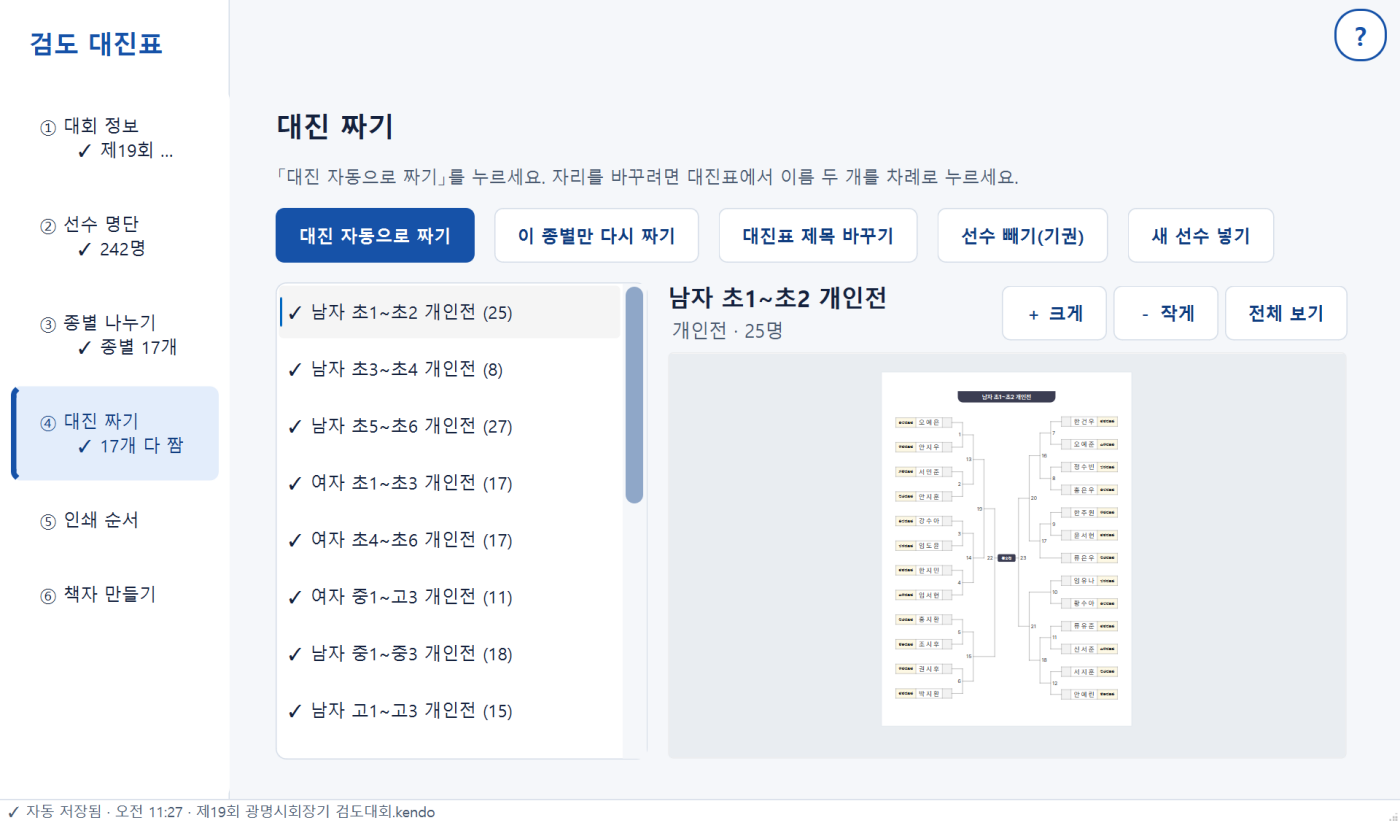
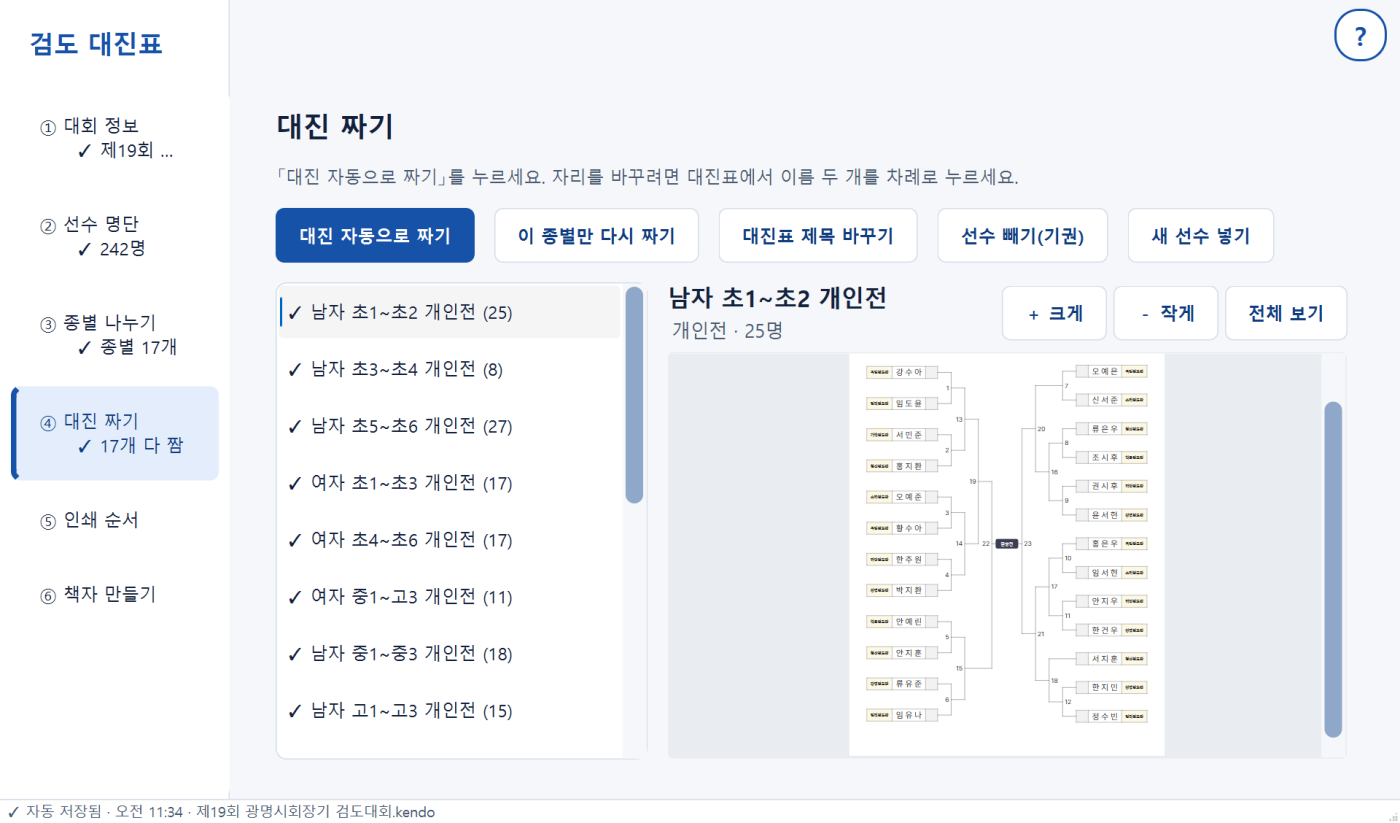
feat: 요강 이름(초등 저학년부·고학년부)을 대진 제목에 쓰고 선수 지우기 전에 묻는다
- 종별 글에 저학년/고학년이 있고 범위가 1~3·4~6 이면 제목이 「남자 초등 저학년부 개인전」(DivisionRule.name)
  학년 범위가 바뀌면(합치기·쪼개기·표에서 고침) 이름을 떼고 학년으로 부른다
- .kendo 에 name 칸 추가, 없는 예전 파일은 예전 제목 그대로 열림(시험)
- 종별 표 틀 「초등 저학년·고학년부」 추가
- ② 「고른 선수 지우기」는 한 번 묻는다
- ④ 「전체 보기」는 종이가 아니라 대진표 그림을 화면에 꽉 차게(작은 대진이 안 커지던 문제)

Changed region(s): [[0.6143, 0.4253, 0.8293, 0.8809], [0.9214, 0.486, 0.9829, 0.8809]]

diff --git a/src/kendo_tournament/application/help_content.py b/src/kendo_tournament/application/help_content.py
@@ -115,6 +115,7 @@ SECTIONS: tuple[HelpSection, ...] = (
                 "기타",
                 (
                     "신청서 없이 받은 선수는 「선수 추가」로 넣습니다.",
+                    "표에서 선수를 누르고 「고른 선수 지우기」를 누르면 한 번 더 묻고 지웁니다. 지운 선수는 되살릴 수 없습니다.",
                     "같은 도장이 다르게 적혀 왔으면(○○검도관 / ○○검도장) 오른쪽 목록에서 둘 이상 골라 「같은 도장으로 묶기」를 누릅니다.",
                 ),
             ),
@@ -130,7 +131,9 @@ SECTIONS: tuple[HelpSection, ...] = (
                     "맨 위 「대회 종별 표」가 이 대회의 개인전·단체전 종별입니다. 새 대회는 광명 회장기 종별입니다.",
                     "「대회 종별 표 고치기」에서 요강이나 신청서를 넣으면 그 속 신청서 양식의 종별을 읽어 옵니다.",
                     "신청서 양식이 없는 경기일정 파일은 「경기장배치」 표에 적힌 종별을 읽어 옵니다.",
-                    "「틀 고르기」로 광명 회장기·광명 시장기 종별을 넣고, 바꿀 줄만 고쳐도 됩니다.",
+                    "「틀 고르기」로 광명 회장기·광명 시장기·인제 전국대회 종별을 넣고, 바꿀 줄만 고쳐도 됩니다.",
+                    "요강이 초등부를 저학년부(1~3학년)·고학년부(4~6학년)로 나누면 「초등 저학년·고학년부」 틀을 고릅니다.",
+                    "종별 글에 「저학년부」「고학년부」가 있으면 대진표 제목도 그 이름입니다(예: 남자 초등 저학년부 개인전). 학년 범위를 고치거나 합치면 학년으로 바뀝니다.",
                     "종별 글은 신청서처럼 적습니다. 예: 남초등 1~2학년, 여청소년 (중,고), 남자청년부 20~35세",
                     "종목을 고르고 「기준 채우기」를 누르면 종별마다 나누는 기준이 한 줄씩 생깁니다.",
                     "신청서에만 있는 다른 종별(다른 양식)은 그 뒤에 붙습니다.",
@@ -185,7 +188,7 @@ SECTIONS: tuple[HelpSection, ...] = (
                     "늦게 온 선수: 명단에 넣고 종별을 다시 나눈 뒤 「새 선수 넣기」",
                     "「이 종별만 다시 짜기」는 손으로 고친 것을 지우고 새로 뽑습니다.",
                     "「대진표 제목 바꾸기」로 대진표 맨 위 제목을 바꿉니다(예: 남자 단부 개인전 B조).",
-                    "대진표는 「＋ 크게」「－ 작게」「전체 보기」로 크기를 바꿉니다.",
+                    "대진표는 「＋ 크게」「－ 작게」로 크기를 바꾸고, 「전체 보기」를 누르면 대진표가 화면에 꽉 차게 돌아옵니다.",
                 ),
             ),
             HelpGroup(

diff --git a/tests/presentation/test_names_and_delete.py b/tests/presentation/test_names_and_delete.py
@@ -1,0 +1,64 @@
+import os
+
+os.environ.setdefault("QT_QPA_PLATFORM", "offscreen")
+
+from PySide6.QtWidgets import QApplication, QMessageBox  # noqa: E402
+
+from kendo_tournament.application.tournament_session import TournamentSession  # noqa: E402
+from kendo_tournament.domain.division.category_table import TEMPLATES  # noqa: E402
+from kendo_tournament.domain.division.presets import PresetChoice  # noqa: E402
+from kendo_tournament.domain.model import Event, Gender, Grade, Participant  # noqa: E402
+from kendo_tournament.infrastructure.readers.registry import reader_for  # noqa: E402
+from kendo_tournament.infrastructure.storage.json_repository import JsonTournamentRepository  # noqa: E402
+from kendo_tournament.presentation.division_view import FROM, DivisionView  # noqa: E402
+from kendo_tournament.presentation.roster_view import RosterView  # noqa: E402
+
+APP = QApplication.instance() or QApplication([])
+
+
+def _session(tmp_path):
+    s = TournamentSession(JsonTournamentRepository(), reader_for, tmp_path)
+    people = [
+        Participant(f"p{i}", f"선수{i}", Gender.MALE, f"도장{i}", Grade(1 + i % 3), None, "광명", "a.docx") for i in range(4)
+    ]
+    s.set_participants(people)
+    return s
+
+
+def _answer(monkeypatch, button):
+    asked: list[str] = []
+
+    def question(*args, **kwargs):
+        asked.append(args[2])
+        return button
+
+    monkeypatch.setattr(QMessageBox, "question", question)
+    return asked
+
+
+def test_고른_선수_지우기는_한_번_묻고_아니요면_그대로_둔다(tmp_path, monkeypatch):
+    s = _session(tmp_path)
+    view = RosterView(s, (".docx",))
+    before = len(s.tournament.participants)
+    view._table.selectRow(0)
+    asked = _answer(monkeypatch, QMessageBox.StandardButton.No)
+    view._remove_selected()
+    assert asked
+    assert len(s.tournament.participants) == before
+    _answer(monkeypatch, QMessageBox.StandardButton.Yes)
+    view._remove_selected()
+    assert len(s.tournament.participants) == before - 1
+
+
+def test_기준_표를_거쳐_나눠도_요강_이름이_남고_학년을_고치면_뗀다(tmp_path):
+    s = _session(tmp_path)
+    s.set_categories(TEMPLATES["초등 저학년·고학년부"])
+    view = DivisionView(s, (".docx",))
+    view._add_preset(PresetChoice((Event.INDIVIDUAL,)))
+    view._apply()
+    assert "남자 초등 저학년부 개인전" in [d.label for d in s.tournament.divisions]
+    view._table.cellWidget(0, FROM).select(Grade(2))
+    view._apply()
+    labels = [d.label for d in s.tournament.divisions]
+    assert "남자 초등 저학년부 개인전" not in labels
+    assert any("초2~초3" in label for label in labels)

diff --git a/src/kendo_tournament/presentation/division_view.py b/src/kendo_tournament/presentation/division_view.py
@@ -159,6 +159,9 @@ class DivisionView(QWidget):
         for column, widget in cells.items():
             self._table.setCellWidget(row, column, widget)
         event.setProperty("rule_id", rule.id)
+        # 표에는 요강 이름 칸이 없다. 이름과 그 이름이 가리키던 학년 범위를 들고 있다가, 범위를 안 고쳤으면 다시 붙인다.
+        event.setProperty("rule_name", rule.name)
+        event.setProperty("named_span", (rule.grade_from.value, rule.grade_to.value))
         delete = button("삭제")
         delete.clicked.connect(lambda _=False, combo=event: self._delete_row_of(combo))
         self._table.setCellWidget(row, DELETE, delete)
@@ -176,18 +179,22 @@ class DivisionView(QWidget):
             cell = self._table.cellWidget
             event = cell(row, EVENT).value()
             age_from, age_to, age_name = rule_age(cell(row, AGE).text())
+            grade_from, grade_to = cell(row, FROM).value(), cell(row, TO).value()
+            span = cell(row, EVENT).property("named_span")
+            kept = span is not None and tuple(span) == (grade_from.value, grade_to.value)
             rules.append(
                 DivisionRule(
                     cell(row, EVENT).property("rule_id") or f"r{row + 1}",
                     event,
                     cell(row, GENDER).value(),
-                    cell(row, FROM).value(),
-                    cell(row, TO).value(),
+                    grade_from,
+                    grade_to,
                     None,
                     cell(row, MINIMUM).value(),
                     age_from,
                     age_to,
                     age_name,
+                    (cell(row, EVENT).property("rule_name") or "") if kept else "",
                 )
             )
         return rules

diff --git a/src/kendo_tournament/presentation/bracket_canvas.py b/src/kendo_tournament/presentation/bracket_canvas.py
@@ -6,6 +6,7 @@ from PySide6.QtCore import QPointF, QRectF, QSize, Qt, Signal
 from PySide6.QtGui import QBrush, QColor, QFont, QFontMetricsF, QPainter, QPen, QPixmap, QPolygonF
 from PySide6.QtWidgets import (
     QGraphicsItem,
+    QGraphicsLineItem,
     QGraphicsPixmapItem,
     QGraphicsPolygonItem,
     QGraphicsRectItem,
@@ -22,6 +23,7 @@ PX_PER_MM = 4.0
 PT_TO_MM = 0.3528
 PAGE_GAP_MM = 8.0
 LINE_PEN_WIDTH = 0.9
+DRAWING_MARGIN_MM = 6.0
 
 
 class BracketCanvas(QGraphicsView):
@@ -52,6 +54,22 @@ class BracketCanvas(QGraphicsView):
 
     def fit(self) -> None:
         self.fitInView(self.scene().sceneRect(), Qt.AspectRatioMode.KeepAspectRatio)
+
+    def fit_drawing(self) -> None:
+        """종이가 아니라 그려진 대진표(이름·선·띠)가 화면에 꽉 차게 맞춘다.
+
+        종이 전체를 맞추면 2명 대진처럼 작은 대진이 종이 가운데에 조그맣게 남아 「전체 보기」가 안 되는 것처럼 보였다(운영자).
+        선(이름 상자 테두리·대진 선)만 잰다. 종별 이름 띠는 종이 맨 위라 넣으면 작은 대진이 다시 작아지고, 이름은 화면 위에 따로 나온다.
+        """
+        drawing = QRectF()
+        for item in self.scene().items():
+            if isinstance(item, QGraphicsLineItem):
+                drawing = drawing.united(item.sceneBoundingRect())
+        if drawing.isEmpty():
+            self.fit()
+            return
+        margin = DRAWING_MARGIN_MM * PX_PER_MM
+        self.fitInView(drawing.adjusted(-margin, -margin, margin, margin), Qt.AspectRatioMode.KeepAspectRatio)
 
     def zoom(self, factor: float) -> None:
         """단추로 확대·축소한다. Ctrl+휠은 운영자가 모르는 경우가 많다."""

diff --git a/tests/domain/test_division_names.py b/tests/domain/test_division_names.py
@@ -1,0 +1,27 @@
+from dataclasses import replace
+
+from kendo_tournament.domain.division.editing import merge_rules, split_rules
+from kendo_tournament.domain.division.individual_categories import individual_rules
+from kendo_tournament.domain.model import DivisionRule, Event, Gender, Grade
+
+
+def _named_rules() -> list[DivisionRule]:
+    return individual_rules([], (), None, ("남초등 저학년부", "남초등 고학년부"))
+
+
+def test_요강_이름이_있는_종별은_제목이_요강_이름이다():
+    assert [rule.label for rule in _named_rules()] == ["남자 초등 저학년부 개인전", "남자 초등 고학년부 개인전"]
+
+
+def test_합치거나_쪼개서_학년_범위가_바뀌면_요강_이름을_떼고_학년으로_부른다():
+    rules = _named_rules()
+    (merged,) = merge_rules(rules, [rule.id for rule in rules])
+    assert merged.label == "남자 초1~초6 개인전"
+    split = split_rules(rules[:1], [rules[0].id])
+    assert [rule.label for rule in split] == ["남자 초1 개인전", "남자 초2 개인전", "남자 초3 개인전"]
+
+
+def test_범위가_그대로면_요강_이름이_남는다():
+    rule = DivisionRule("r", Event.INDIVIDUAL, Gender.MALE, Grade(1), Grade(3), name="초등 저학년부")
+    assert rule.with_grades(Grade(1), Grade(3)).label == "남자 초등 저학년부 개인전"
+    assert replace(rule, name="").label == "남자 초1~초3 개인전"

diff --git a/src/kendo_tournament/domain/division/editing.py b/src/kendo_tournament/domain/division/editing.py
@@ -34,7 +34,7 @@ def merge_rules(rules: Sequence[DivisionRule], rule_ids: Sequence[str]) -> list[
     for lower, upper in zip(picked, picked[1:], strict=False):
         if upper.grade_from.value != lower.grade_to.value + 1:
             raise ValueError("학년이 이어지는 종별끼리만 합칠 수 있습니다. 사이에 낀 종별도 함께 골라 주세요.")
-    merged = replace(head, grade_to=picked[-1].grade_to)
+    merged = head.with_grades(head.grade_from, picked[-1].grade_to)
     removed = {rule.id for rule in picked}
     first_position = min(index for index, rule in enumerate(rules) if rule.id in removed)
     result = [rule for rule in rules if rule.id not in removed]
@@ -56,7 +56,8 @@ def split_rules(rules: Sequence[DivisionRule], rule_ids: Sequence[str]) -> list[
             continue
         for value in range(rule.grade_from.value, rule.grade_to.value + 1):
             rule_id = rule.id if value == rule.grade_from.value else _fresh_id(f"{rule.id}-{value}", used)
-            result.append(replace(rule, id=rule_id, grade_from=Grade(value), grade_to=Grade(value), min_entries=None))
+            single = rule.with_grades(Grade(value), Grade(value))
+            result.append(replace(single, id=rule_id, min_entries=None))
     return result
 
 

diff --git a/src/kendo_tournament/domain/model.py b/src/kendo_tournament/domain/model.py
@@ -2,7 +2,7 @@
 
 from __future__ import annotations
 
-from dataclasses import dataclass, field
+from dataclasses import dataclass, field, replace
 from enum import Enum
 
 
@@ -99,6 +99,8 @@ class DivisionRule:
     age_from: int | None = None
     age_to: int | None = None
     age_name: str = ""
+    # 요강이 부르는 종별 이름(「초등 저학년부」). 학년 범위가 바뀌면(합치기·쪼개기) 그 이름이 맞지 않아 비운다.
+    name: str = ""
 
     def __post_init__(self) -> None:
         if self.grade_from > self.grade_to:
@@ -115,7 +117,14 @@ class DivisionRule:
             grades = self.age_band_label
         elif self.age_name:
             grades = self.age_name
+        elif self.name:
+            grades = self.name
         return f"{gender} {grades} {self.event.value}"
+
+    def with_grades(self, grade_from: Grade, grade_to: Grade) -> DivisionRule:
+        """학년 범위를 바꾼 규칙. 범위가 달라지면 요강 이름이 더는 맞지 않아 뗀다."""
+        same = (grade_from, grade_to) == (self.grade_from, self.grade_to)
+        return replace(self, grade_from=grade_from, grade_to=grade_to, name=self.name if same else "")
 
     @property
     def has_age_band(self) -> bool:

diff --git a/src/kendo_tournament/presentation/roster_view.py b/src/kendo_tournament/presentation/roster_view.py
@@ -11,6 +11,7 @@ from PySide6.QtWidgets import (
     QInputDialog,
     QListWidget,
     QListWidgetItem,
+    QMessageBox,
     QTableWidget,
     QTableWidgetItem,
     QVBoxLayout,
@@ -194,7 +195,13 @@ class RosterView(QWidget):
     def _remove_selected(self) -> None:
         rows = {index.row() for index in self._table.selectedIndexes()}
         ids = {self._table.item(row, 0).data(Qt.ItemDataRole.UserRole) for row in rows}
-        if ids:
+        if not ids:
+            show_warnings(self._warnings, ["지울 선수를 표에서 먼저 눌러 주세요."])
+            return
+        # 지운 선수는 되살릴 수단이 없어 한 번 묻는다(운영자 요청).
+        question = f"고른 선수 {len(ids)}명을 명단에서 지울까요? 지우면 되살릴 수 없습니다."
+        answer = QMessageBox.question(self, "선수 지우기", question)
+        if answer == QMessageBox.StandardButton.Yes:
             self._session.set_participants([p for p in self._session.tournament.participants if p.id not in ids])
             self.refresh()
             self.roster_changed.emit()

diff --git a/tests/domain/test_category_table.py b/tests/domain/test_category_table.py
@@ -24,3 +24,15 @@ def test_시장기_신청서_학년_선수는_자기_학년_부문에_든다():
     choice = PresetChoice((Event.INDIVIDUAL,), categories=GWANGMYEONG_MAYOR)
     result = build_divisions(people, [], make_rules(choice, participants=people))
     assert [(d.label, len(d.entries)) for d in result.divisions] == [("남자 초2 개인전", 2)]
+
+
+def test_저학년부_고학년부_틀의_초등_종별은_1에서3_4에서6학년이고_제목은_요강_이름이다():
+    from kendo_tournament.domain.division.category_label import group_name, parse_category
+    from kendo_tournament.domain.division.category_table import TEMPLATES
+
+    table = TEMPLATES["초등 저학년·고학년부"]
+    assert table.unreadable() == []
+    elementary = [label for label in (*table.individual, *table.team) if "학년부" in label]
+    spans = {(parse_category(label).grade_from, parse_category(label).grade_to) for label in elementary}
+    assert spans == {(1, 3), (4, 6)}
+    assert {group_name(label) for label in elementary} == {"초등 저학년부", "초등 고학년부"}

diff --git a/tests/infrastructure/test_json_repository.py b/tests/infrastructure/test_json_repository.py
@@ -337,3 +337,19 @@ def test_팀원_자리는_저장되고_없던_예전_파일은_자리_없이_읽
     del saved["teams"][0]["positions"]
     path.write_text(json.dumps(saved, ensure_ascii=False), encoding="utf-8")
     assert repo.load(path).teams[0].positions == ()
+
+
+def test_요강_이름이_저장되고_이름_칸이_없는_예전_파일은_학년_제목_그대로_열린다(tmp_path):
+    import json
+
+    repo = JsonTournamentRepository()
+    t = sample_tournament()
+    t.rules = [DivisionRule("r", Event.INDIVIDUAL, Gender.MALE, Grade(1), Grade(3), name="초등 저학년부")]
+    path = tmp_path / "새.kendo"
+    repo.save(t, path)
+    assert repo.load(path).rules[0].label == "남자 초등 저학년부 개인전"
+    saved = json.loads(path.read_text(encoding="utf-8"))
+    for rule in saved["rules"]:
+        del rule["name"]
+    path.write_text(json.dumps(saved, ensure_ascii=False), encoding="utf-8")
+    assert repo.load(path).rules[0].label == "남자 초1~초3 개인전"

diff --git a/src/kendo_tournament/domain/division/category_label.py b/src/kendo_tournament/domain/division/category_label.py
@@ -96,6 +96,21 @@ def band_name(label: str) -> str:
     return _GENDER_PREFIX.sub("", text)
 
 
+def group_name(label: str) -> str:
+    """요강이 초등부를 「저학년부·고학년부」로 부르면 그 이름(「초등 저학년부」). 아니면 빈 글.
+
+    운영자: 요강의 초등부 이름이 학년 대신 저학년부·고학년부로 바뀔 수 있다 — 대진표 제목도 요강 이름을 따른다.
+    글이 가리키는 학년 범위가 그 이름의 범위(1~3·4~6)와 다르면 이름을 붙이지 않는다(「저학년 1~2학년」 같은 글).
+    """
+    category = parse_category(label)
+    if category is None:
+        return ""
+    for word, span in ELEMENTARY_HALVES:
+        if word in label and (category.grade_from, category.grade_to) == span:
+            return f"초등 {word}부"
+    return ""
+
+
 def has_band_word(label: str) -> bool:
     return any(word in label for word in BAND_WORDS)
 

diff --git a/src/kendo_tournament/presentation/bracket_view.py b/src/kendo_tournament/presentation/bracket_view.py
@@ -64,7 +64,7 @@ class BracketView(QWidget):
         bigger, smaller, whole = button("＋ 크게"), button("－ 작게"), button("전체 보기")
         bigger.clicked.connect(lambda: self._canvas.zoom(ZOOM_STEP))
         smaller.clicked.connect(lambda: self._canvas.zoom(1 / ZOOM_STEP))
-        whole.clicked.connect(self._canvas.fit)
+        whole.clicked.connect(self._canvas.fit_drawing)
         self._pick_hint = QLabel()
         self._pick_hint.setObjectName("pickHint")
         self._pick_hint.setWordWrap(True)
@@ -143,7 +143,7 @@ class BracketView(QWidget):
         flagged = {slot for pair in conflicts for slot in pair}
         self._canvas.show_pages(pages_for([bracket]), picked, flagged)
         if fit:
-            self._canvas.fit()
+            self._canvas.fit_drawing()
 
     def _draw_all(self) -> None:
         if not self._session.tournament.divisions:
